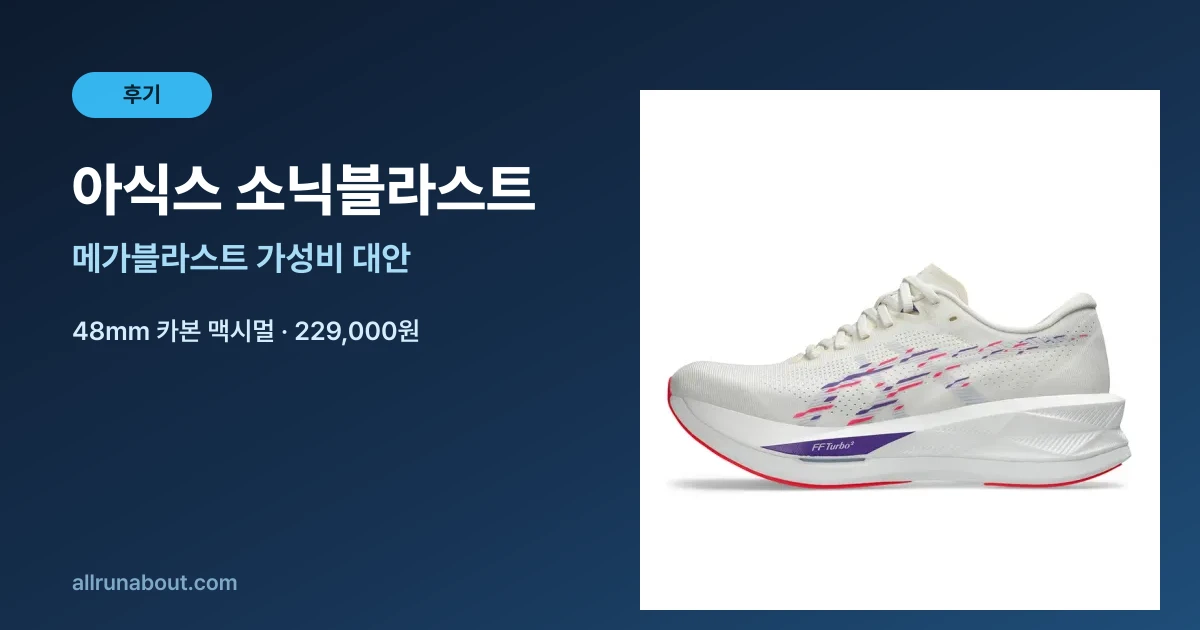
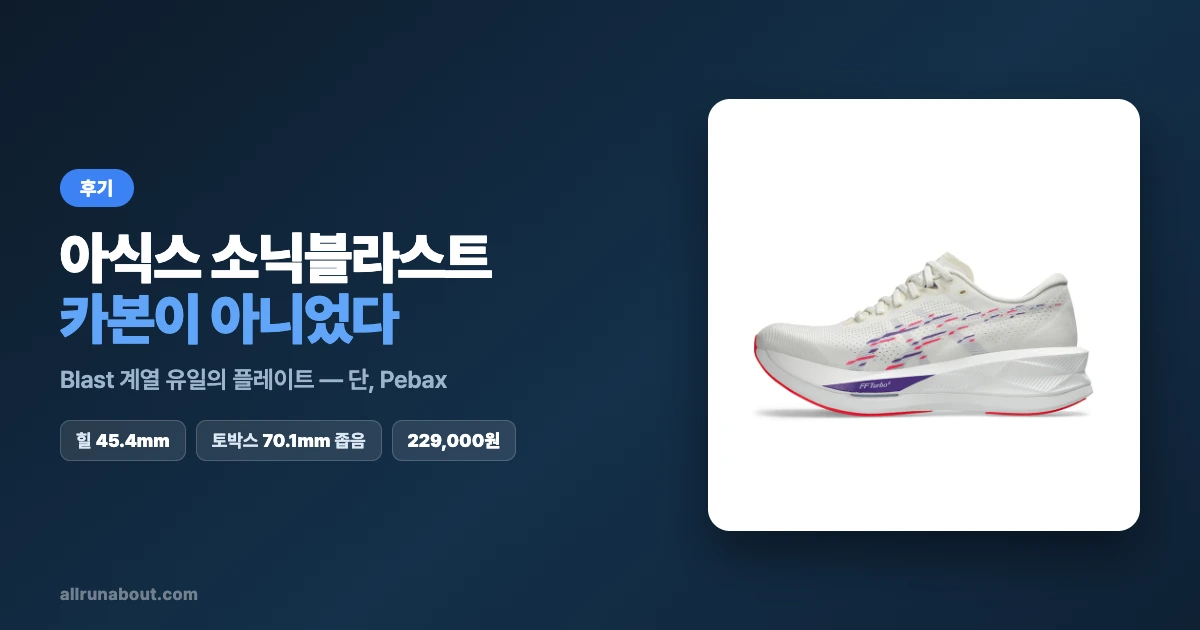
fix(blog): 소닉블라스트 오염 확산분 전수 정리 — 글 3편 + 썸네일 + 허구 후기 서술 2건
DB(31489ac)만 고친 상태라 상세페이지와 블로그가 서로 다른 사실을 말하고 있었음.

- asics-sonicblast-review-2026 전면 재작성: '메가블라스트 80% 성능을 싸게'라는
  전제 자체가 틀렸음(메가블라스트 수치가 복사돼 있었음). 실측 기준으로 각도 교체
  — Blast 계열 유일 플레이트(Pebax)·이지런엔 뻣뻣·토박스 70.1mm로 좁음.
  제목/요약/본문/FAQ 3개/썸네일 전부 교체, 상단 정정 안내 + updatedAt 기입
- 아식스 계급도: 표 행 + FAQ의 '소닉블라스트(카본 맥시멀)' 정정
- 메가블라스트 후기 본문 4곳: '같은 48mm 스택 + 카본 플레이트' 서술 정정
- 허구 후기 서술 2건 제거 ('실사용 후기에서도 ~평이 많습니다')
  — validate 7번이 못 잡는 형태(별점·1인칭이 아닌 가짜 출처 인용)

검증: 카본 오기 잔존 0건(정당한 잔존은 분류 후 제외) · validate 에러 0 · build exit 0

diff --git a/src/lib/data/blog/posts/2026-07.ts b/src/lib/data/blog/posts/2026-07.ts
@@ -2685,7 +2685,7 @@ export const posts_2026_07: BlogPost[] = [
 </div>
 
 <h2>메가블라스트, 어떤 신발인가</h2>
-<p>메가블라스트는 아식스의 <strong>FF Blast Turbo 폼</strong>을 얹은 최상위 맥시멀 쿠션화입니다. 힐 48.1mm·전족 38.5mm의 초고 스택으로 장거리 아스팔트 충격을 최대한 걸러내면서도, <strong>218g이라는 초경량</strong>을 실현한 게 핵심입니다. 카본 플레이트는 없지만(같은 스택의 <a href="/shoes/asics-sonicblast">소닉블라스트</a>는 카본 플레이트가 있습니다) 폼 자체의 반발력만으로 83% 에너지 리턴을 냅니다.</p>
+<p>메가블라스트는 아식스의 <strong>FF Blast Turbo 폼</strong>을 얹은 최상위 맥시멀 쿠션화입니다. 힐 48.1mm·전족 38.5mm의 초고 스택으로 장거리 아스팔트 충격을 최대한 걸러내면서도, <strong>218g이라는 초경량</strong>을 실현한 게 핵심입니다. 플레이트는 없지만(스택이 더 낮은 <a href="/shoes/asics-sonicblast">소닉블라스트</a>에는 Pebax 소재의 ASTROPLATE가 들어갑니다) 폼 자체의 반발력만으로 83% 에너지 리턴을 냅니다.</p>
 
 <h2>왜 "48mm인데 218g"이 특별한가</h2>
 <div class="table-wrap">
@@ -2698,7 +2698,7 @@ export const posts_2026_07: BlogPost[] = [
   </tbody>
 </table>
 </div>
-<p>보통 스택이 높아질수록 무게도 함께 늘어나는 게 일반적입니다. 그런데 메가블라스트는 <strong>같은 48mm 스택의 소닉블라스트(카본 플레이트 포함)보다도 37g 가볍고</strong>, 다른 브랜드 맥시멀 쿠션화 대표주자인 본디 9보다는 75g 가볍습니다. 이 정도 차이면 25km 이상 장거리에서 후반부 다리 피로감이 확연히 다르게 느껴진다는 게 실사용 후기의 공통된 반응입니다.</p>
+<p>보통 스택이 높아질수록 무게도 함께 늘어나는 게 일반적입니다. 그런데 메가블라스트는 <strong>스택이 더 낮은 소닉블라스트(45.4/36.4mm)보다도 37g 가볍고</strong>, 다른 브랜드 맥시멀 쿠션화 대표주자인 본디 9보다는 75g 가볍습니다. 25km를 넘어가는 장거리에서 무게 차이는 후반 다리에 남는 부담으로 누적되는 만큼, 장거리 비중이 큰 러너에게는 체감이 큰 항목입니다.</p>
 
 <h2>발볼·쿠셔닝 — 한국 러너가 궁금해할 것들</h2>
 <ul>
@@ -2709,7 +2709,7 @@ export const posts_2026_07: BlogPost[] = [
 </ul>
 
 <h2>가격 대비 가치</h2>
-<p>정가 299,000원(세일가 25만원 안팎), 500km 기준 <strong>km당 약 598원</strong>입니다. 맥시멀 쿠션화 중에서는 상위 가격대지만, "48mm 스택 + 218g 초경량 + 83% 에너지 리턴"이라는 조합을 동시에 만족하는 신발은 드물어 스펙 대비로는 납득할 만한 가격입니다. 가격 부담이 크다면 같은 스택에 카본 플레이트까지 더해 6만원 저렴한 <a href="/shoes/asics-sonicblast">소닉블라스트</a>가 대안입니다(단, 무게는 37g 더 무겁습니다).</p>
+<p>정가 299,000원(세일가 25만원 안팎), 500km 기준 <strong>km당 약 598원</strong>입니다. 맥시멀 쿠션화 중에서는 상위 가격대지만, "48mm 스택 + 218g 초경량 + 83% 에너지 리턴"이라는 조합을 동시에 만족하는 신발은 드물어 스펙 대비로는 납득할 만한 가격입니다. 가격 부담이 크다면 7만원 저렴한 <a href="/shoes/asics-sonicblast">소닉블라스트</a>(229,000원)를 볼 수 있지만, 같은 성능을 싸게 주는 하위 모델은 아닙니다 — 스택이 45.4/36.4mm로 낮고 37g 무거우며 토박스도 70.1mm로 좁습니다. 대신 Pebax 플레이트가 들어가 템포·인터벌 쪽에 맞습니다.</p>
 
 <h2>누구에게 맞을까</h2>
 <ul>
@@ -2722,12 +2722,12 @@ export const posts_2026_07: BlogPost[] = [
 <p>비슷한 맥시멀 쿠션화를 더 비교하고 싶다면 <a href="/best/max-cushion">맥스 쿠션 러닝화 추천</a>에서 확인할 수 있습니다.</p>
 
 <h2>마무리</h2>
-<p>메가블라스트는 "맥시멀 쿠션은 무겁다"는 통념을 깨는 신발입니다. 48mm 스택에서 218g을 실현했다는 것만으로도 아식스 라인업에서 독보적인 위치이고, 반응성·부상 예방 등급까지 최상위라 장거리 러너에게 특히 매력적입니다. 가격이 부담스럽다면 카본 플레이트를 더한 가성비 대안 소닉블라스트도 함께 비교해보세요.</p>
+<p>메가블라스트는 "맥시멀 쿠션은 무겁다"는 통념을 깨는 신발입니다. 48mm 스택에서 218g을 실현했다는 것만으로도 아식스 라인업에서 독보적인 위치이고, 반응성·부상 예방 등급까지 최상위라 장거리 러너에게 특히 매력적입니다. 가격이 부담스럽다면 소닉블라스트도 함께 볼 수 있지만, 성격이 다른 신발이라는 점을 감안하고 비교하세요.</p>
 `,
     faqs: [
       {
         question: '메가블라스트와 소닉블라스트, 뭘 사야 하나요?',
-        answer: '무게를 최우선한다면 메가블라스트(218g)를, 예산을 아끼면서 카본 플레이트의 추진력도 원한다면 소닉블라스트(255g, 7만원 저렴)를 선택하세요. 스택·에너지 리턴은 거의 동일하니 예산과 무게 중 무엇을 우선할지가 기준입니다.',
+        answer: '용도가 다른 신발입니다. 메가블라스트는 플레이트가 없고 스택 48.1/38.5mm에 218g으로 가벼워 이지런·장거리에 맞습니다. 소닉블라스트는 45.4/36.4mm로 스택이 낮고 255g으로 무겁지만, 3/4 길이 ASTROPLATE(카본이 아니라 Pebax 소재)가 들어가 템포·인터벌에서 진가가 나옵니다. 7만원 싸다고 하위호환은 아니며, 발볼이 넓다면 토박스가 82.6mm인 메가블라스트 쪽이 맞습니다(소닉블라스트는 70.1mm로 좁습니다).',
       },
       {
         question: '메가블라스트가 정말 본디 9보다 그렇게 가벼운가요?',
@@ -2742,22 +2742,31 @@ export const posts_2026_07: BlogPost[] = [
   {
     id: 'asics-sonicblast-review-2026',
     slug: 'asics-sonicblast-review-2026',
-    title: '아식스 소닉블라스트 후기 | 메가블라스트 80% 성능을 7만원 싸게 — 카본 맥시멀 가성비 1위',
+    title: '아식스 소닉블라스트 후기 | Blast 계열 유일의 플레이트 — 페이스를 올려야 살아난다',
     description:
-      '"48mm 맥시멀 쿠션에 카본 플레이트까지, 그런데 30만원은 부담된다"는 러너에게 아식스 소닉블라스트를 추천합니다. 메가블라스트와 같은 48mm 스택·83% 에너지 리턴을 유지하면서 229,000원(세일 시 18만원대)으로 6만원 저렴합니다. 토박스 82.6mm로 발볼 넓은 한국 러너에게 우호적이고, 부상 예방 등급도 최상위입니다. 무릎 보호와 장거리 가성비를 동시에 원하는 러너를 위한 실사용 후기입니다.',
+      '소닉블라스트는 아식스 Blast 계열에서 유일하게 플레이트가 들어간 모델입니다. 카본이 아니라 Pebax 소재의 3/4 길이 ASTROPLATE이고, FF Turbo Squared와 FF Blast Max를 겹친 46mm 듀얼 폼 위에 얹혔습니다. 랩 실측 기준 에너지 리턴 68.9%에 통기성은 만점이지만, 토박스가 70.1mm로 좁아 발볼 넓은 러너에게는 맞지 않습니다. 이지 페이스에서는 뻣뻣하고 템포로 올라가야 진가가 나오는 신발입니다.',
     thumbnail: '/images/blog/asics-sonicblast-review-2026.webp',
     author: '산초 에디터',
     publishedAt: '2026-07-14',
+    updatedAt: '2026-08-27',
     category: 'review' as const,
-    readingTime: 7,
-    tags: ['아식스 소닉블라스트', '카본 플레이트', '맥시멀 쿠션', '가성비 러닝화', '장거리 러닝화'],
+    readingTime: 8,
+    tags: ['아식스 소닉블라스트', 'ASTROPLATE', '슈퍼트레이너', '템포 러닝화', '플레이트 러닝화'],
     content: `
+<div class="callout info">
+  <span class="callout-icon">✏</span>
+  <div class="callout-body">
+    <p class="callout-title">2026년 8월 27일 전면 정정</p>
+    <p>이 글의 초판은 <strong>메가블라스트의 스펙이 소닉블라스트 것으로 잘못 들어간 상태</strong>로 작성됐습니다. 스택 48mm, 토박스 82.6mm, 에너지 리턴 83%, 그리고 "카본 플레이트"라는 서술이 모두 사실과 달랐습니다. 랩 실측을 다시 대조해 본문 전체를 고쳐 씁니다. 잘못된 정보로 구매를 판단하셨다면 사과드립니다.</p>
+  </div>
+</div>
+
 <div class="tldr">
   <span class="tldr-label">3줄 요약</span>
   <ul>
-    <li><strong>메가블라스트와 같은 48mm 스택·83% 에너지 리턴</strong>을 유지하면서 <strong>229,000원(세일 시 18만원대)으로 6만원 저렴</strong>합니다 — 카본 맥시멀 가성비 1위</li>
-    <li><strong>토박스 82.6mm로 넓은 편</strong>이라 와이드 옵션 없이도 발볼 넓은 한국 러너에게 우호적입니다</li>
-    <li><strong>부상 예방 등급이 족저근막염·아킬레스·무릎·신 스플린트 전부 최상위(excellent)</strong> — 무릎 보호와 장거리 가성비를 동시에 원하는 러너에게 적합합니다</li>
+    <li><strong>Blast 계열에서 유일하게 플레이트가 들어간 모델</strong>입니다. 다만 카본이 아니라 <strong>Pebax 소재</strong>의 3/4 길이 ASTROPLATE입니다</li>
+    <li><strong>페이스를 올려야 살아나는 신발</strong>입니다. 이지 페이스에서는 뒤꿈치가 둔하고 미드풋이 뻣뻣하다는 평가가 반복됐고, 템포·인터벌에서 평가가 확 좋아집니다</li>
+    <li><strong>발볼 넓으면 피하세요.</strong> 토박스 실측 70.1mm로 평균보다 확실히 좁고 와이드 옵션도 없습니다</li>
   </ul>
 </div>
 
@@ -2765,65 +2774,81 @@ export const posts_2026_07: BlogPost[] = [
   <span class="callout-icon">👟</span>
   <div class="callout-body">
     <p class="callout-title">한 줄 결론</p>
-    <p>"메가블라스트 사고 싶은데 30만원 가까이는 부담된다"면 <strong>소닉블라스트가 정답</strong>입니다. <a href="/shoes/asics-megablast">메가블라스트</a>와 동일한 48mm 스택에 카본 플레이트까지 탑재하고도 <strong>229,000원</strong>(세일 시 18만원대)으로 6만원 저렴합니다. 다만 무게가 255g으로 메가블라스트(218g)보다 37g 무겁고, 평발·과내전 러너에겐 안정성이 다소 부족할 수 있습니다.</p>
+    <p>주 1~2회 템포나 인터벌을 하는 <strong>중립 발·표준 발볼</strong> 러너에게 맞는 신발입니다. 반대로 대부분을 이지런으로 채우거나 발볼이 넓다면 <a href="/shoes/asics-superblast-3">슈퍼블라스트 3</a>이나 <a href="/shoes/asics-megablast">메가블라스트</a> 같은 무플레이트 고스택이 더 잘 맞습니다. 플레이트 소재별 차이가 궁금하다면 <a href="/blog/running-shoe-plate-guide-2026">플레이트 완전 해설</a>을 참고하세요.</p>
   </div>
 </div>
 
 <h2>소닉블라스트, 어떤 신발인가</h2>
-<p>소닉블라스트는 아식스의 <strong>FF Blast+ 폼 + 풀렝스 카본 플레이트</strong>를 얹은 맥시멀 쿠션화입니다. 힐 48.1mm·전족 38.5mm의 초고 스택으로 아스팔트 충격을 최대한 흡수하면서, 카본 플레이트가 추진력을 더해 장거리에서도 페이스 유지를 돕는 구성이죠. 카본 플레이트가 있다고 해서 레이싱화는 아니고, <strong>"편안하게 오래 달리면서도 밀어주는 힘이 필요한" 장거리·리커버리 러닝용</strong>으로 설계됐습니다.</p>
+<p>소닉블라스트는 아식스 Blast 계열에서 <strong>유일하게 플레이트가 들어간 모델</strong>입니다. 상단에 FF Turbo Squared, 하단에 FF Blast Max를 겹친 듀얼 폼 위에 <strong>3/4 길이 ASTROPLATE</strong>를 얹었습니다.</p>
+<p>여기서 짚고 넘어갈 것이 있습니다. 일부 매체가 이 플레이트를 카본으로 소개하지만 <strong>실제 소재는 Pebax</strong>입니다. 신발을 반으로 잘라 확인한 RunRepeat을 비롯해 Believe in the Run과 Doctors of Running이 모두 Pebax로 명시했습니다. 카본만큼 단단하지 않고 좀 더 유연하게 휘는 소재라, 같은 "플레이트 러닝화"라도 카본 레이서와는 성격이 다릅니다.</p>
+<p>스택은 브랜드 표기가 힐 46mm·전족 38mm인데, 실제로 잘라 재보니 <strong>45.4mm·36.4mm</strong>였습니다. 드롭도 표기 8mm와 달리 실측 9.0mm로 나왔습니다. 무게는 남성 US9 기준 255g입니다.</p>
 
 <h2>메가블라스트와 뭐가 다른가</h2>
+<p>두 신발은 "같은 성능을 싸게"의 관계가 아닙니다. <strong>용도가 다른 신발</strong>입니다.</p>
 <div class="table-wrap">
 <table>
   <thead><tr><th>항목</th><th>소닉블라스트</th><th>메가블라스트</th></tr></thead>
   <tbody>
-    <tr><td>가격</td><td><strong>229,000원</strong></td><td>290,000원</td></tr>
-    <tr><td>무게</td><td>255g</td><td>218g</td></tr>
-    <tr><td>스택(힐/전족)</td><td>48.1 / 38.5mm</td><td>48mm 동일</td></tr>
-    <tr><td>에너지 리턴</td><td>83%</td><td>83% 동일</td></tr>
-    <tr><td>경도(HA)</td><td>19.9(약간 단단함)</td><td>15.5(더 부드러움)</td></tr>
-    <tr><td>토박스</td><td>82.6mm</td><td>넓은 편</td></tr>
+    <tr><td>가격</td><td><strong>229,000원</strong></td><td>299,000원</td></tr>
+    <tr><td>무게</td><td>255g</td><td><strong>218g</strong></td></tr>
+    <tr><td>스택(힐/전족, 실측)</td><td>45.4 / 36.4mm</td><td><strong>48.1 / 38.5mm</strong></td></tr>
+    <tr><td>플레이트</td><td><strong>3/4 ASTROPLATE (Pebax)</strong></td><td>없음</td></tr>
+    <tr><td>미드솔</td><td>FF Turbo Squared + FF Blast Max</td><td>FF Blast Turbo</td></tr>
+    <tr><td>토박스</td><td>70.1mm (좁음)</td><td><strong>82.6mm (넓음)</strong></td></tr>
+    <tr><td>성격</td><td>템포·인터벌</td><td>이지런·장거리</td></tr>
   </tbody>
 </table>
 </div>
-<p>핵심은 <strong>같은 스택·같은 에너지 리턴을 유지하면서 가격만 낮췄다</strong>는 점입니다. 대신 무게가 37g 더 나가고, 경도(HA)가 19.9로 메가블라스트(15.5)보다 살짝 단단해 반발감이 좀 더 선명하게 느껴집니다. "메가블라스트보다 살짝 단단하고 무겁지만, 그만큼 저렴한" 트레이드오프로 이해하면 됩니다.</p>
+<p>정리하면 소닉블라스트는 메가블라스트보다 <strong>7만원 싸지만 37g 무겁고, 스택도 낮고, 발볼도 좁습니다.</strong> 대신 플레이트가 있어 페이스를 올릴 때의 감각이 다릅니다. 편하게 오래 달릴 신발을 찾는다면 메가블라스트가, 훈련에서 속도를 내는 날이 있다면 소닉블라스트가 맞습니다.</p>
 
-<h2>발볼·쿠셔닝 — 한국 러너가 궁금해할 것들</h2>
+<h2>랩 수치로 본 강점</h2>
+<p>반발과 접지가 이 신발의 강점입니다. 에너지 리턴 <strong>68.9%</strong>는 매우 높은 축이고, 충격흡수는 힐 149·전족 133으로 고스택다운 수치입니다. 전족 접지력 0.96은 최상위권이라 젖은 노면에서도 안심할 만합니다.</p>
+<p>통기성은 <strong>5점 만점</strong>을 받았습니다. 한국 여름처럼 습하고 더운 환경에서는 이게 생각보다 큰 장점입니다. RunRepeat 종합 점수는 83점이고, Believe in the Run은 A 티어(퍼포먼스 A·디자인 B·가치 B)를 줬습니다.</p>
+
+<h2>페이스에 따라 평가가 갈린다</h2>
+<p>이 신발의 성격을 가장 정확히 짚은 것은 Doctors of Running입니다. 전족부는 매우 반응적이고 로커도 날카롭지만, <strong>이지 페이스에서는 뒤꿈치가 둔하고 미드풋이 과하게 뻣뻣하다</strong>는 것이 핵심 지적이었습니다. 템포나 레이스 페이스로 올라갈수록 성능이 뚜렷하게 좋아지는 신발이라, 전 페이스를 커버하는 범용 트레이너가 아니라 특정 훈련에 쓰는 도구에 가깝다는 결론이었습니다.</p>
+<p>수치로도 뒷받침됩니다. 종방향 강성 24.4N에 비틀림 강성 21.5Nm로 상당히 단단해, RunRepeat도 이 뻣뻣함을 범용성을 제한하는 단점으로 꼽았습니다.</p>
+<p>구조적으로는 <strong>힐 베벨이 46mm 스택에 비해 부족하다</strong>는 지적이 있었습니다. 스택이 높아질수록 그에 비례하는 로커가 필요한데 그 균형이 어긋나면 접지 전환에서 비효율이 생긴다는 설명입니다. 이 때문에 초기 접지가 거칠어져 <strong>아킬레스건 문제 이력이 있다면 부담이 될 수 있고</strong>, 뻣뻣한 미드풋과 3/4 플레이트가 아치의 자연스러운 움직임을 제한할 수 있다고 봤습니다.</p>
+
+<h2>한국 러너가 궁금해할 것들</h2>
 <ul>
-  <li><strong>"발볼 넓은데 괜찮나요?"</strong> — 토박스가 82.6mm로 넓은 편이라 와이드 옵션 없이도 대부분 편안하게 맞습니다. 실사용 후기에서도 "발볼 넓은 발도 전혀 끼지 않는다"는 평이 많습니다</li>
-  <li><strong>"무릎 괜찮나요?"</strong> — 부상 예방 등급이 족저근막염·아킬레스건염·무릎·신 스플린트 전부 <strong>excellent(최상위)</strong>입니다. 48mm 초고 스택이 아스팔트 충격을 확실히 걸러줍니다</li>
-  <li><strong>"평발인데 신어도 되나요?"</strong> — 안정성 점수가 6/10으로 중간 수준이라, 평발·과내전이 심하다면 아치 지지가 부족하게 느껴질 수 있습니다. 이런 경우엔 안정화 카테고리를 우선 고려하세요</li>
-  <li><strong>"초보도 신을 수 있나요?"</strong> — 카본 플레이트가 있지만 레이싱화처럼 예민하지 않고, 오히려 두꺼운 쿠션 덕분에 착지 충격에 관대합니다. 다만 48mm는 처음엔 다소 낯설 수 있어 짧은 거리부터 적응하는 걸 권합니다</li>
+  <li><strong>"발볼 넓은데 괜찮나요?"</strong> — 권하지 않습니다. 토박스 실측 70.1mm에 최대폭 92.8mm로 평균보다 확실히 좁고, RunRepeat 총평도 발볼 넓은 발에는 부적합이었습니다. 와이드 옵션도 없습니다. 발볼이 넓다면 <a href="/shoes/saucony-endorphin-speed-5">엔돌핀 스피드 5</a> 쪽이 여유가 있습니다</li>
+  <li><strong>"무릎 괜찮나요?"</strong> — 46mm 스택에 충격흡수 149라 무릎으로 오는 충격 자체는 잘 걸러집니다. 다만 이지 페이스에서 힐 전환이 매끄럽지 않아 느리게 달릴 때는 오히려 부담이 될 수 있습니다</li>
+  <li><strong>"평발인데 신어도 되나요?"</strong> — 중립 발 전용 구조입니다. 아치 지지가 없으니 평발이 뚜렷하거나 발이 안쪽으로 무너진다면 안정화 계열을 보세요</li>
+  <li><strong>"초보도 신을 수 있나요?"</strong> — 첫 신발로는 권하지 않습니다. 이지런에서 뻣뻣함이 먼저 느껴지는 신발이라, 아직 템포 훈련을 하지 않는 단계라면 값어치를 못 뽑습니다</li>
+  <li><strong>"여름에 어떤가요?"</strong> — 통기성 5점 만점으로 이 신발의 확실한 장점입니다</li>
 </ul>
 
-<h2>가격 대비 가치</h2>
-<p>229,000원(정가), 세일가 기준으로는 18만원대까지 내려갑니다. 500km 기준 <strong>km당 약 458원</strong>으로, 카본 플레이트 탑재 맥시멀 쿠션화 중에서는 가장 낮은 축입니다. 카본 플레이트 없는 일반 맥시멀 쿠션화(<a href="/shoes/hoka-bondi-9">호카 본디 9</a> 등)보다는 비싸지만, "카본 플레이트 + 48mm 스택"이라는 조합만 놓고 보면 시장에서 가장 저렴한 선택지입니다.</p>
+<h2>가격 대비 가치와 수명</h2>
+<p>정가 229,000원에 500km 기준 <strong>km당 약 458원</strong>입니다. 아웃솔은 두께 2.0mm에 마모 실측 1.0mm로 양호한 편입니다.</p>
+<p>다만 수명을 갉아먹는 쪽은 아웃솔이 아니라 <strong>갑피</strong>입니다. 토박스 내구성이 5점 만점에 1점으로 평가돼, 밑창이 남아 있어도 앞볼이 먼저 헐 가능성이 큽니다. 훈련량이 많다면 이 점을 감안하고 사는 편이 좋습니다.</p>
 
 <h2>누구에게 맞을까</h2>
 <ul>
-  <li><strong>장거리 러너</strong> — 32km 이상 장거리에서도 카본 플레이트가 페이스 유지를 도와줍니다</li>
-  <li><strong>쿠션과 반발력을 동시에 원하는 러너</strong> — 48mm 스택 + 83% 에너지 리턴 조합</li>
-  <li><strong>가성비를 중시하는 러너</strong> — 메가블라스트 성능의 상당 부분을 6만원 저렴하게</li>
-  <li><strong>무릎 통증이 걱정되는 러너</strong> — 부상 예방 등급 전부 최상위</li>
-  <li>반대로 <strong>평발·과내전이 심하거나 가벼운 신발을 선호한다면</strong> 다른 카테고리를 먼저 고려하는 게 낫습니다. 안정성이 필요하면 안정화 카테고리, 가벼운 신발을 원하면 데일리 트레이너 쪽이 더 맞습니다</li>
+  <li><strong>템포·인터벌을 주 1~2회 하는 러너</strong> — 페이스가 올라갈수록 평가가 좋아지는 신발입니다</li>
+  <li><strong>카본까지는 부담스러운 러너</strong> — Pebax 플레이트라 카본 레이서보다 관대합니다</li>
+  <li><strong>여름 러닝 비중이 큰 러너</strong> — 통기성 만점</li>
+  <li>반대로 <strong>이지런 위주거나, 발볼이 넓거나, 아킬레스가 약하다면</strong> 맞지 않습니다. 무플레이트 고스택인 <a href="/shoes/asics-superblast-3">슈퍼블라스트 3</a>이나 <a href="/shoes/asics-megablast">메가블라스트</a>를 먼저 보세요</li>
 </ul>
-<p>비슷한 맥시멀 쿠션화를 더 비교하고 싶다면 <a href="/best/max-cushion">맥스 쿠션 러닝화 추천</a>에서, 카본 플레이트 러닝화 전반에 대한 배경 지식은 <a href="/blog/carbon-plate-shoes-comparison-2025">카본 플레이트 러닝화 가이드</a>에서 확인할 수 있습니다.</p>
+<p>더 넓게 비교하고 싶다면 <a href="/best/max-cushion">맥스 쿠션 러닝화 추천</a>을, 플레이트 소재별 차이는 <a href="/blog/running-shoe-plate-guide-2026">플레이트 완전 해설</a>을, 카본이 모두에게 답은 아닌 이유는 <a href="/blog/carbon-shoes-not-for-everyone-2026">카본화가 나한테도 맞을까</a>에서 확인할 수 있습니다.</p>
 
 <h2>마무리</h2>
-<p>소닉블라스트는 "메가블라스트는 갖고 싶은데 가격이 부담된다"는 러너에게 가장 먼저 추천할 수 있는 대안입니다. 같은 스택·같은 에너지 리턴을 유지하면서 6만원 저렴하고, 넓은 토박스로 한국 러너에게도 우호적입니다. 카본 플레이트 맥시멀 입문으로 이만한 가성비는 찾기 어렵습니다.</p>
+<p>소닉블라스트는 "메가블라스트 가성비 대안"이 아닙니다. 더 싸지만 더 무겁고 스택도 낮고 발볼도 좁은, <strong>성격이 다른 신발</strong>입니다. 대신 Blast 계열 중 유일하게 플레이트를 갖고 있어 훈련에서 속도를 내는 날의 감각이 확실히 다릅니다. 그 용도가 분명하고 발볼이 표준이라면 좋은 선택이고, 그렇지 않다면 같은 값으로 더 잘 맞는 신발이 많습니다.</p>
+
+<p><small>출처: RunRepeat 랩 실측(절단 계측), Doctors of Running·Believe in the Run 리뷰 · 가격은 한국 공식가 기준 · 2026년 8월 27일 전면 정정.</small></p>
 `,
     faqs: [
       {
         question: '소닉블라스트와 메가블라스트, 뭘 사야 하나요?',
-        answer: '같은 48mm 스택·83% 에너지 리턴이라 성능 차이는 크지 않습니다. 예산이 30만원에 가까워도 괜찮고 218g의 가벼운 무게를 원한다면 메가블라스트를, 7만원을 아끼고 싶고 무게 37g 차이가 크게 신경 쓰이지 않는다면 소닉블라스트를 선택하세요. 소닉블라스트가 경도(HA 19.9)가 조금 더 단단해 반발감이 선명하다는 차이도 있습니다.',
+        answer: '용도로 가르세요. 메가블라스트는 플레이트가 없고 스택이 48.1/38.5mm로 더 높으며 218g으로 37g 가볍습니다. 편하게 오래 달리는 이지런·장거리용입니다. 소닉블라스트는 45.4/36.4mm에 3/4 ASTROPLATE가 들어가 템포·인터벌에서 진가가 나옵니다. 가격은 소닉블라스트가 229,000원으로 7만원 저렴하지만, 같은 성능을 싸게 주는 관계가 아니라 성격이 다른 신발입니다. 발볼이 넓다면 토박스 82.6mm인 메가블라스트 쪽이 맞습니다.',
       },
       {
         question: '소닉블라스트, 발볼 넓은데 괜찮을까요?',
-        answer: '네, 토박스가 82.6mm로 넓은 편이라 별도 와이드 옵션 없이도 대부분 편안하게 맞습니다. 실사용 후기에서도 발볼 넓은 발이 끼지 않는다는 평이 많습니다.',
+        answer: '권하지 않습니다. 토박스가 랩 실측 70.1mm, 최대폭 92.8mm로 평균보다 확실히 좁아 RunRepeat 총평도 발볼 넓은 발에는 부적합이었습니다. 와이드 옵션도 제공되지 않아 사이즈로 해결할 방법도 없습니다. 발볼이 넓다면 엔돌핀 스피드 계열이나 메가블라스트를 검토하세요.',
       },
       {
-        question: '소닉블라스트로 첫 카본 플레이트 러닝화를 시작해도 될까요?',
-        answer: '가능합니다. 레이싱화형 카본 플레이트 슈즈와 달리 48mm 두꺼운 쿠션이 착지 충격에 관대해 입문자에게도 무리가 적습니다. 다만 스택이 높아 처음엔 낯설 수 있으니 짧은 거리부터 적응하는 것을 권합니다.',
+        question: '소닉블라스트의 플레이트는 카본인가요?',
+        answer: '아닙니다. 3/4 길이 ASTROPLATE이고 소재는 Pebax입니다. 일부 매체가 카본으로 소개했지만, 신발을 절단해 확인한 RunRepeat과 Believe in the Run·Doctors of Running이 모두 Pebax로 명시했습니다. 카본보다 유연하게 휘는 소재라 카본 레이서만큼 공격적이지 않고, 그만큼 착지에 관대한 편입니다.',
       },
     ],
   },

diff --git a/src/lib/data/blog/posts/2026-06.ts b/src/lib/data/blog/posts/2026-06.ts
@@ -3568,7 +3568,7 @@ export const posts_2026_06: BlogPost[] = [
     tags: ['아식스 러닝화', '아식스 계급도', '러닝화 라인업', '러닝화 등급', '젤 카야노', '젤 님버스', '노바블라스트', '메타스피드', '슈퍼블라스트', 'FF Blast'],
     faqs: [
       { question: '아식스 GEL(젤)이랑 FF Blast는 뭐가 다른가요?', answer: 'GEL은 아식스의 전통 충격흡수 젤 캡슐이고, FF Blast는 통통 튀는 신세대 바운시 폼입니다. 아식스는 클래식 GEL 라인(젤 님버스·젤 카야노 일부)과 신세대 FF Blast 라인(노바·메가·슈퍼블라스트)이 공존합니다. 상징적 전환점이 젤 카야노 33으로, 13년 만에 GEL을 빼고 FF Blast 듀얼 폼으로 바꿨습니다.' },
-      { question: '"blast"가 붙은 모델들은 뭐가 다른가요?', answer: '모두 FF Blast 바운시 폼 계열이지만 성격이 다릅니다. 노바블라스트(데일리 바운시)·메가블라스트(48mm 맥시멀 경량)·소닉블라스트(카본 맥시멀)·슈퍼블라스트(카본 없는 슈퍼트레이너)입니다. 통통 튀는 재미를 원하면 노바블라스트, 대회 가까운 빠른 훈련이면 슈퍼블라스트가 답입니다.' },
+      { question: '"blast"가 붙은 모델들은 뭐가 다른가요?', answer: '모두 FF Blast 바운시 폼 계열이지만 성격이 다릅니다. 노바블라스트(데일리 바운시)·메가블라스트(48mm 맥시멀 경량)·소닉블라스트(Pebax 플레이트가 들어간 템포용)·슈퍼블라스트(플레이트 없는 슈퍼트레이너)입니다. 통통 튀는 재미를 원하면 노바블라스트, 대회 가까운 빠른 훈련이면 슈퍼블라스트가 답입니다.' },
       { question: '아식스 안정화는 뭘 사야 하나요?', answer: '젤 카야노 32 또는 33입니다. 카야노는 전 세계 안정화 추천 1순위로 꼽히는 평발·과내전 끝판왕입니다. 32는 4D Guidance로 단단하게, 33은 FLUIDSUPPORT로 부드럽게 잡아줍니다. 안정화 선택이 처음이면 자가진단부터 하는 걸 권합니다.' },
       { question: '메타스피드 스카이·엣지·레이는 뭐가 다른가요?', answer: '주법으로 갈립니다. 스카이+는 보폭을 늘리는 스트라이드 러너용, 엣지+는 피치(케이던스)를 높이는 러너용입니다. 레이는 129g 초경량 버전으로 전족 착지·단거리에 특화됐습니다. 본인이 보폭형이면 스카이, 회전수형이면 엣지를 고르세요.' },
       { question: '아식스는 발볼 넓은 한국 러너에게 맞나요?', answer: '아식스는 나이키보다 토박스가 넉넉한 편이라 한국 러너에게 친화적입니다. 특히 카야노·GT 라인은 2E·4E 와이드 옵션이 풍부하고, 메가블라스트·소닉블라스트·젤 벤처도 넓은 편입니다. 다만 메타스피드 레이·메타후지 같은 일부 레이싱·트레일은 좁으니 주의하세요.' },
@@ -3645,7 +3645,7 @@ export const posts_2026_06: BlogPost[] = [
     <tr><td><a href="/shoes/asics-gel-nimbus-28"><strong>젤 님버스 28</strong></a></td><td>프리미엄 쿠션</td><td>FF Blast Plus</td><td>19.9만</td><td>281g</td><td>43.5mm 푹신, 중립 쿠션 대장</td></tr>
     <tr><td><a href="/shoes/asics-magic-speed-4"><strong>매직스피드 4</strong></a></td><td>카본 입문</td><td>FF Blast+ · FF Turbo · 카본</td><td>19.9만</td><td>237g</td><td>풀렝스 카본, 메타스피드 입문</td></tr>
     <tr><td><a href="/shoes/asics-gel-kayano-33"><strong>젤 카야노 33</strong></a></td><td>안정화 신상</td><td>FF Blast 듀얼 · FLUIDSUPPORT</td><td>19.9만</td><td>298g</td><td>GEL 졸업, 부드러워진 카야노</td></tr>
-    <tr><td><a href="/shoes/asics-sonicblast"><strong>소닉블라스트</strong></a></td><td>카본 맥시멀</td><td>FF Blast+ · 카본</td><td>22.9만</td><td>255g</td><td>카본 플레이트 맥시멀 쿠션</td></tr>
+    <tr><td><a href="/shoes/asics-sonicblast"><strong>소닉블라스트</strong></a></td><td>플레이트 트레이너</td><td>FF Turbo Squared · FF Blast Max · ASTROPLATE(Pebax)</td><td>22.9만</td><td>255g</td><td>Blast 계열 유일 플레이트, 템포용</td></tr>
     <tr><td><a href="/shoes/asics-magic-speed-5"><strong>매직스피드 5</strong></a></td><td>가성비 레이싱</td><td>FF Leap · FF Blast+ · 카본</td><td>22.9만</td><td>193g</td><td>193g 포크형 카본, 50g 감량</td></tr>
     <tr><td><a href="/shoes/asics-superblast-2"><strong>슈퍼블라스트 2</strong></a></td><td>무카본 슈퍼</td><td>FF Turbo+</td><td>24.9만</td><td>252g</td><td>카본 없이 71% 에너지 리턴</td></tr>
     <tr><td><a href="/shoes/asics-superblast-3"><strong>슈퍼블라스트 3</strong></a></td><td>무카본 슈퍼 신상</td><td>FF Leap · FF Blast Plus</td><td>25.9만</td><td>239g</td><td>239g, 더 부드러운 롱런</td></tr>

diff --git a/.omc/todo-estimates.md b/.omc/todo-estimates.md
@@ -8,7 +8,10 @@
 ## 🚨 데이터 오염 정정 이력·잔여 (2026-08-27)
 
 - [x] **`asics-sonicblast` 전면 정정 완료.** 기존 엔트리가 **거의 모든 수치를 다른 신발 것으로** 담고 있었음 — 48mm 스택·**카본 플레이트**·82.6mm 토박스·83% 에너지 리턴·FF Blast+·드롭 10mm·`toBoxWidth: 'wide'`·rating 5. 실제(RunRepeat 절단 실측)는 45.4/36.4mm·**Pebax ASTROPLATE**·토박스 70.1mm(*Not for wide feet*)·에너지 리턴 68.9%·FF Turbo Squared+FF Blast Max·드롭 9.0mm(표기 8mm). `carbonPlate: true → false`가 특히 치명적(사이트 카본 필터에 직접 영향).
-- [ ] **⚠ 블로그 글 `asics-sonicblast-review-2026`(2026-07.ts)에 같은 오류가 그대로 남아 있음** — 본문에 `카본` 18회·`48mm` 11회·`83%` 6회·`82.6mm` 5회. **DB는 고쳤으나 글은 미수정**이라 현재 상세페이지와 블로그가 서로 다른 사실을 말하는 상태. 전면 재작성 필요(별도 작업으로 승인 필요).
+- [ ] **⚠ 블로그 글 `asics-sonicblast-review-2026`(2026-07.ts)에 같은 오류가 그대로 남아 있음** — 본문에 `카본` 18회·`48mm` 11회·`83%` 6회·`82.6mm` 5회. **DB는 고쳤으나 글은 미수정**이라 현재 상세페이지와 블로그가 서로 다른 사실을 말하는 상태. 전면 재작성 필요(별도 작업으로 승인 필요). → **2026-08-27 완료**, 아래 참조.
+- [x] **블로그 확산분 전수 정리 완료 (2026-08-27).** 오염이 DB 한 곳이 아니라 글 3편에 퍼져 있었음 — ①`asics-sonicblast-review-2026` 전면 재작성(제목·요약·본문·FAQ 3개·썸네일 전부 교체, 상단에 정정 안내 명시 + `updatedAt` 기입) ②`asics-running-shoes-lineup-tier-guide-2026` 계급도 표 행 + FAQ의 "소닉블라스트(카본 맥시멀)" ③메가블라스트 후기 본문 4곳의 "같은 48mm 스택 + 카본 플레이트" 서술. 통과 기준은 "카본 0건"이 아니라 **정당한 잔존(정정 안내문·"카본 아님" 설명·FAQ 질문)을 분류한 뒤 미분류 0건** — 최종 확인 시 오기 0건.
+- [x] **허구 후기 서술 2건 동시 제거** — 소닉블라스트 글 "실사용 후기에서도 …평이 많습니다", 메가블라스트 글 "…실사용 후기의 공통된 반응입니다". `npm run validate` 7번 검증이 잡지 못한 형태(별점·1인칭이 아니라 **"실사용 후기"라는 존재하지 않는 출처 인용**)라, 이 패턴을 검증 규칙에 추가할지 검토 필요.
+- [ ] **메가블라스트 자체 수치는 미검증으로 남음** — 소닉블라스트가 이 신발 수치를 복사해 온 것이므로 원본도 의심 대상. 특히 `detailedSpecs.drop`이 `'9.6mm (브랜드) / 16.1mm (실측)'`로 **드롭 16.1mm**라 명백히 이상하고, 에너지 리턴 83%도 출처 미확인. RunRepeat 대조 필요.
 - 교훈: 기존 DB 값은 검증된 것이 아니다([[feedback_db_data_verify]]). 신규 세대를 추가할 때 **전작 엔트리를 먼저 대조**하면 이런 오염이 드러난다.
 
 ## 🆕 신상 3종 — 랩 미게시 상태로 등록 (2026-08-27)
